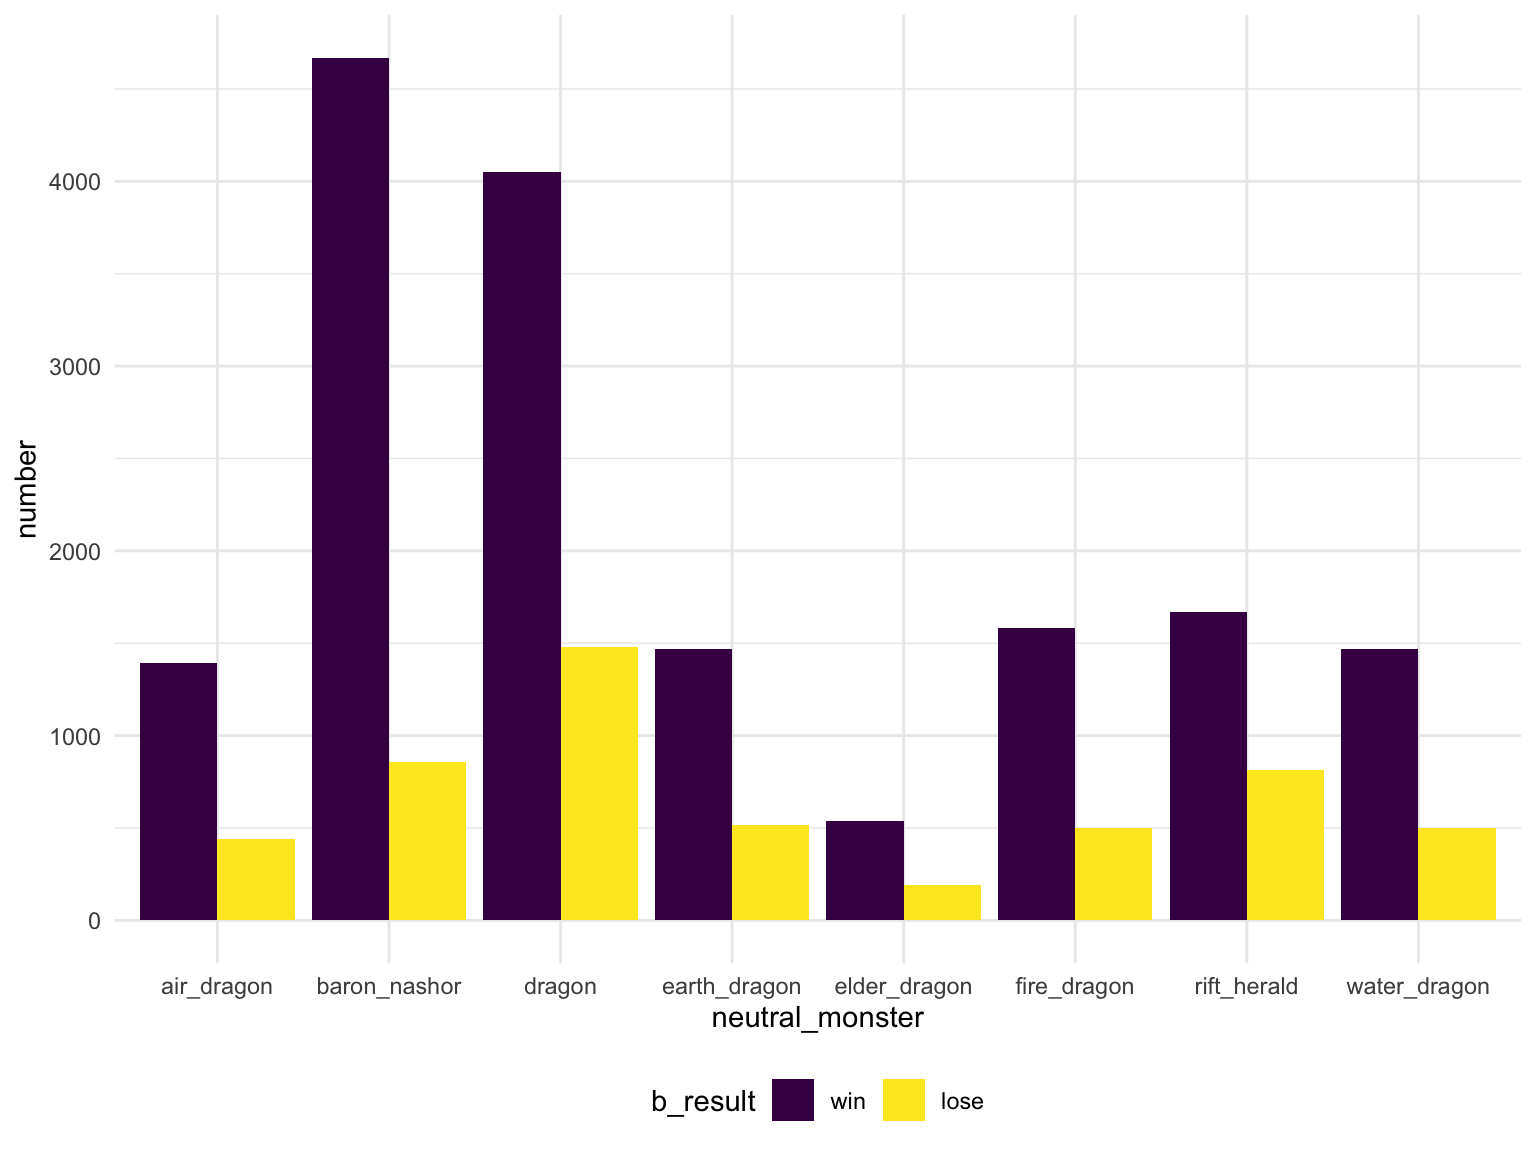
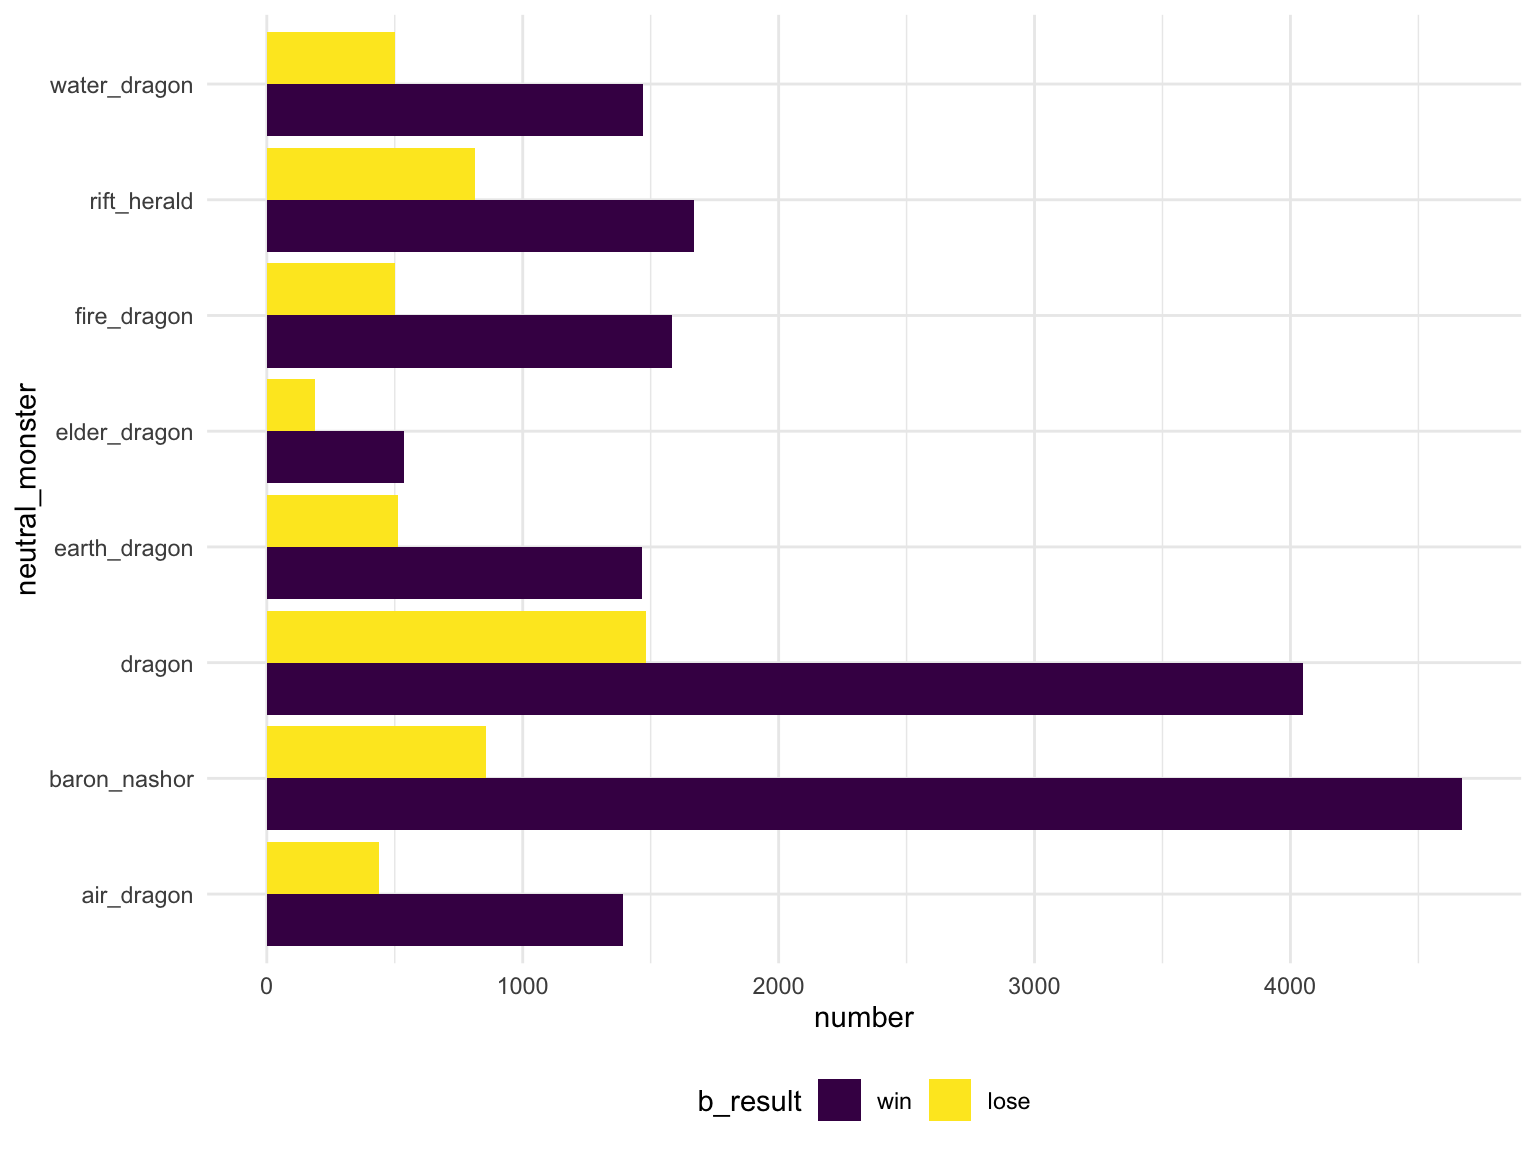
fix the graph

diff --git a/data_source.html b/data_source.html
@@ -496,7 +496,8 @@ monster[is.na(monster)] = 0</code></pre>
   group_by(b_result, neutral_monster) %&gt;% 
   summarize(number = sum(number, na.rm = TRUE)) %&gt;% 
   ggplot(aes(x = neutral_monster, y = number, fill = b_result)) + 
-  geom_bar(stat = &quot;identity&quot;, position = position_dodge())</code></pre>
+  geom_bar(stat = &quot;identity&quot;, position = position_dodge()) + 
+  coord_flip()</code></pre>
 <p><img src="data_source_files/figure-html/unnamed-chunk-11-1.png" width="90%" /></p>
 <pre class="r"><code>origin_df = read_csv(&quot;./data/LeagueofLegends.csv&quot;) %&gt;% janitor::clean_names()
 
@@ -562,6 +563,10 @@ merge_file &lt;- merge_file %&gt;%
   stat_smooth(method = &quot;glm&quot;, se = FALSE, fullrange = TRUE, 
               method.args = list(family = binomial))</code></pre>
 <p><img src="data_source_files/figure-html/unnamed-chunk-14-3.png" width="90%" /></p>
+</div>
+<div id="export-to-csv" class="section level2">
+<h2>export to csv</h2>
+<pre class="r"><code>write.csv(merge_file,&quot;./data/merge.csv&quot;, row.names = FALSE)</code></pre>
 </div>
 </div>
 
